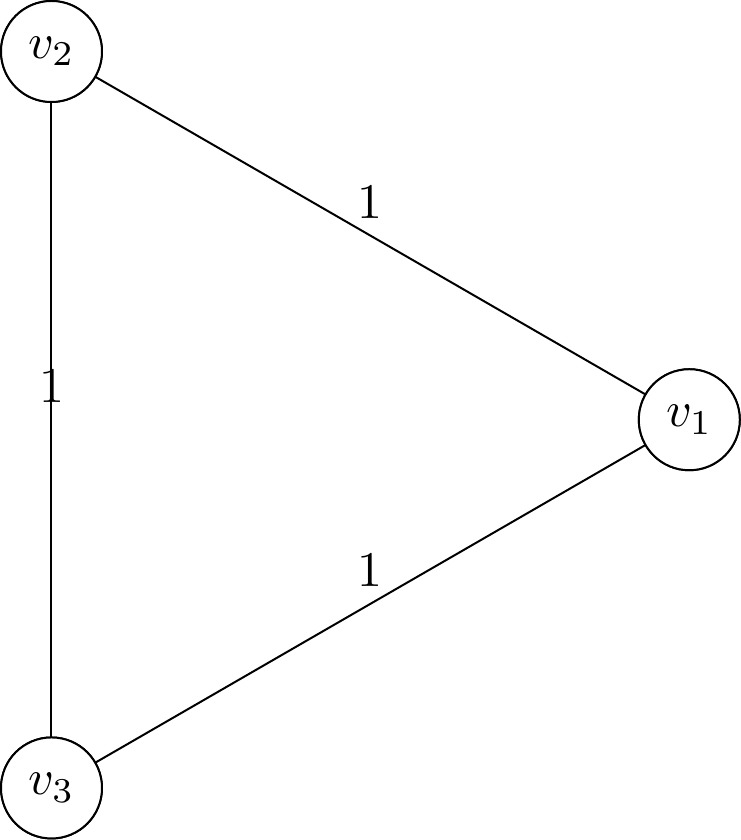
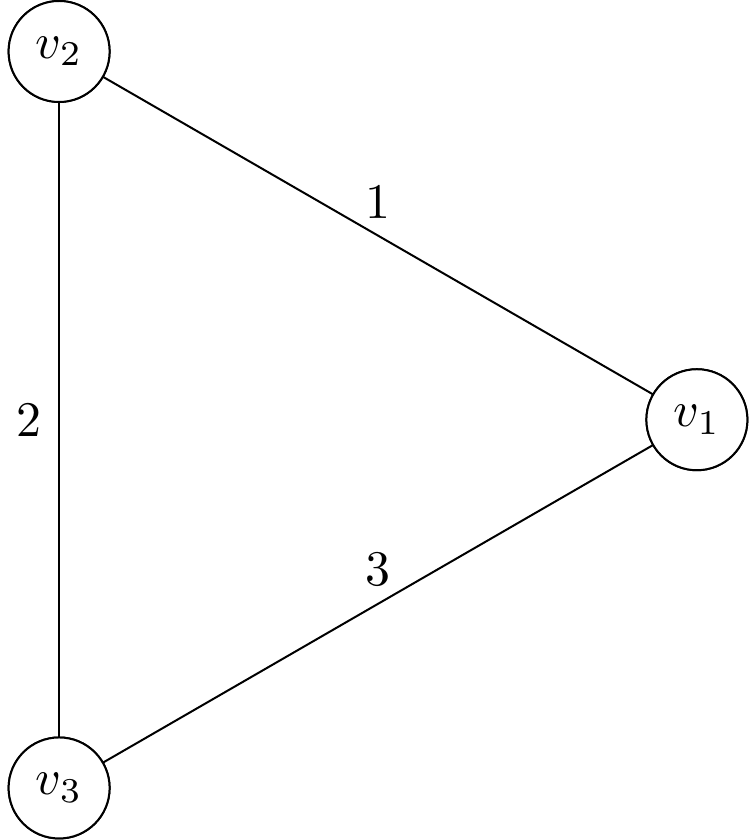
Improvements

diff --git a/main.py b/main.py
@@ -1,6 +1,7 @@
 def LaTeXCode(EdgeSet):
     GraphMeta = ""
     VertexSet = []
+    VertexIdx = {}
 
     for (u, v, t) in EdgeSet:
         if u not in VertexSet:
@@ -12,10 +13,14 @@ def LaTeXCode(EdgeSet):
     for u in VertexSet:
         GraphMeta += "  \coordinate[] (" + str(u) + ") at (" + str(count / len(VertexSet) * 360) + ":3);\n"
         GraphMeta += "  \\node at (" + str(u) + ")[main]{$v_" + str(u) + "$};\n"
+        VertexIdx[u] = count
         count += 1
 
     for (u, v, t) in EdgeSet:
-        GraphMeta += "  \draw (" + str(u) + ") -- node[above, midway] {" + str(t) + "} (" + str(v) + ");\n" 
+        if len(VertexSet) - max(VertexIdx[u], VertexIdx[v]) == min(VertexIdx[u], VertexIdx[v]):
+            GraphMeta += "  \draw (" + str(u) + ") -- node[left, midway] {" + str(t) + "} (" + str(v) + ");\n"
+        else:
+            GraphMeta += "  \draw (" + str(u) + ") -- node[above, midway] {" + str(t) + "} (" + str(v) + ");\n"
     
     for u in VertexSet:
         GraphMeta += "  \\node at (" + str(u) + ")[main]{$v_" + str(u) + "$};\n"
